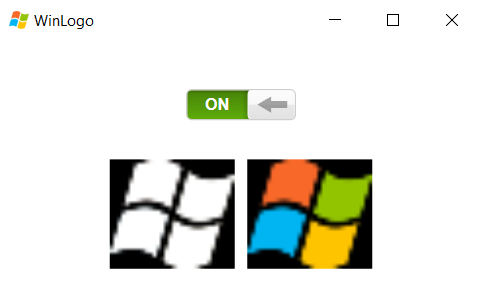
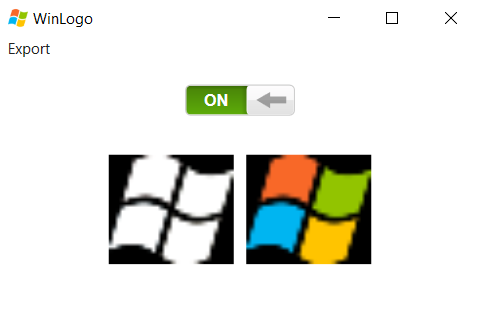
Updated README to include new UI changes

diff --git a/WinLogoUI/MainWindow.xaml b/WinLogoUI/MainWindow.xaml
@@ -8,9 +8,9 @@
         mc:Ignorable="d"
         Title="WinLogo" Height="275" Width="400">
     <StackPanel>
-        <Menu>
+        <Menu Background="Transparent">
             <MenuItem Header="_Export">
-                <MenuItem Header="_Dll Only" Click="ExportDll"/>
+                <MenuItem Header="_Dll" Click="ExportDll"/>
                 <MenuItem Header="_Installer" Click="ExportInstaller"/>
             </MenuItem>
         </Menu>

diff --git a/README.md b/README.md
@@ -2,7 +2,9 @@
 ## About
 This project is used to modify the start button logo of windows 10 computers.
 
-As for now, the logos are precompiled into the binary, and replacing them requires a recompilation (or changing the resources in a DLL manually). For more information, see [Logo Images](#Logo-Images).
+The logos are precompiled into the binary, but the UI supports loading the images from files and then exporting a new dll / installer using the new configuration.
+
+For more information, see [Logo Images](#Logo-Images).
 
 ![Installer UI](/docs/ui.png)
 ![Taskbar](/docs/taskbar.jpg)
@@ -51,6 +53,12 @@ Currently, there are several limitations regarding the images:
 * They must be BMP files
 * Transparency is achieved by using a black background
 * The size is used for the drawing - there is now stretching / resizing done by winlogo.
+
+
+## Replacing the Images
+The UI supports changing the images in the dll - just click on one of the images and select an image file from your computer without any of these limitations. The file will be converted and stretched to achieve the requirements.
+
+After changing the images, it is possible to export either the dll / a new installer using the `Export` menu.
 
 ## Credits
 ### GSL
